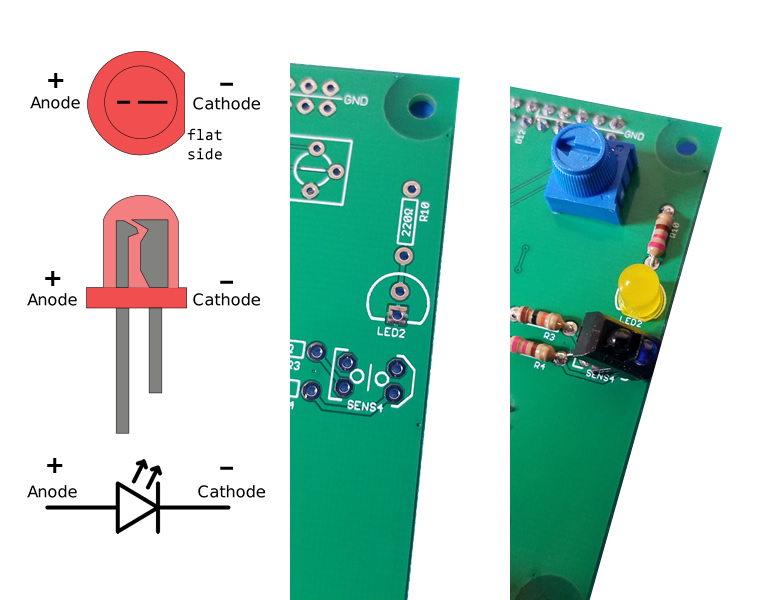
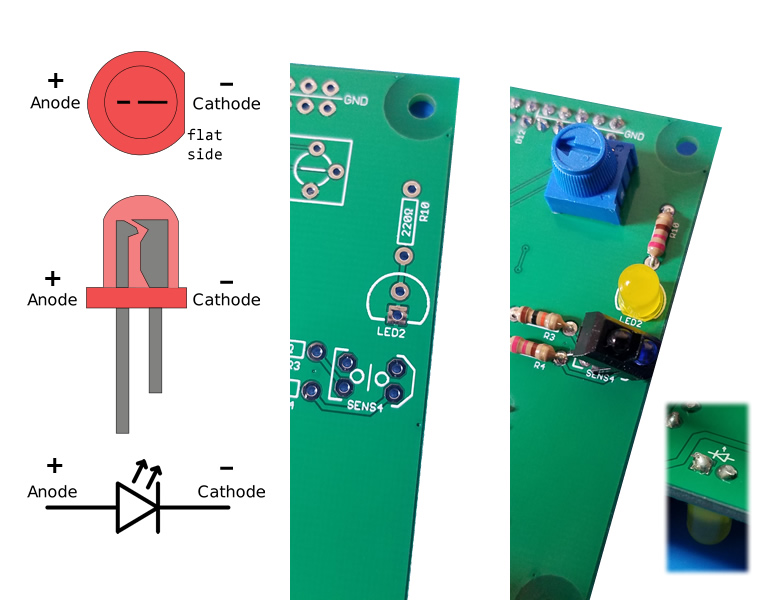
images to show finished solder joints

Changed region(s): [[0.8351, 0.66, 0.9897, 0.96]]

diff --git a/courseware/robotassembly.htm b/courseware/robotassembly.htm
@@ -346,12 +346,20 @@ function body_onload() {
 <p>Solder in all the bigger headers first, with the hints from the previous pictures. These have to be perfectly straight or else you won't be able to plug in your Arduino Nano.</p>
 
 <div class="center_outer"><div class="center_inner"><a href="img/instruct/one_zoomed_in_solder_joint.jpg"><img src="img/instruct/one_zoomed_in_solder_joint.jpg" width="100%" /></a></div></div>
+<br />
+<div class="center_outer"><div class="center_inner"><a href="img/instruct/bigheaders_step3.jpg"><img src="img/instruct/bigheaders_step3.jpg" width="100%" /></a></div></div>
+<br />
+<div class="center_outer"><div class="center_inner"><a href="img/instruct/bigheaders_step3.jpg"><img src="img/instruct/bigheaders_step4.jpg" width="100%" /></a></div></div>
+<br />
+<div class="center_outer"><div class="center_inner"><a href="img/instruct/bigheaders_step3.jpg"><img src="img/instruct/bigheaders_step5.jpg" width="100%" /></a></div></div>
 
 <p>Then move on to soldering the two smaller 3x1 male pin headers. If you have a 6x1 male pin header, cut it in two halves. (otherwise if you have two 3x1 male pin headers, do not cut it)</p>
 
 <div class="center_outer"><div class="center_inner"><img src="img/instruct/cutting_headers_2.jpg" /></div></div>
 <br />
 <div class="center_outer"><div class="center_inner"><a href="img/instruct/servo_male_headers_v2.jpg"><img src="img/instruct/servo_male_headers_v2.jpg" width="100%" /></a></div></div>
+<br />
+<div class="center_outer"><div class="center_inner"><a href="img/instruct/servoheaders_back.jpg"><img src="img/instruct/servoheaders_back.jpg" width="100%" /></a></div></div>
 
 <p>Soldering: Arduino Nano</p>
 
